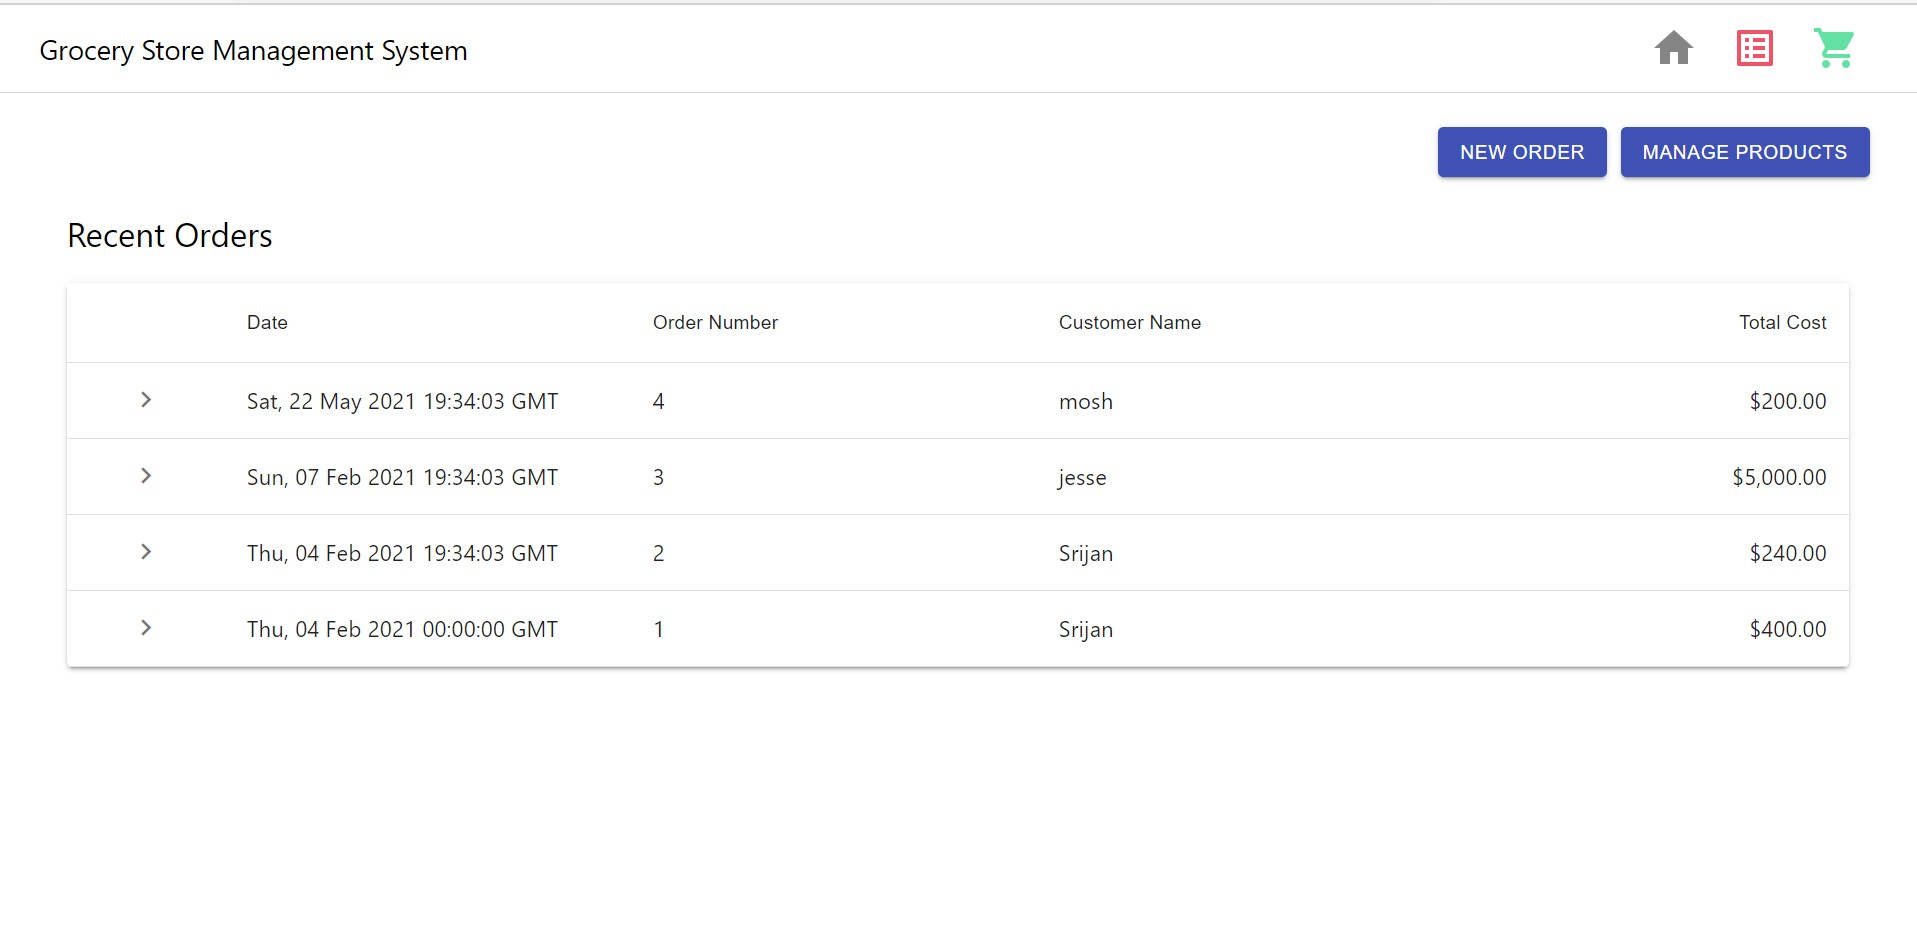
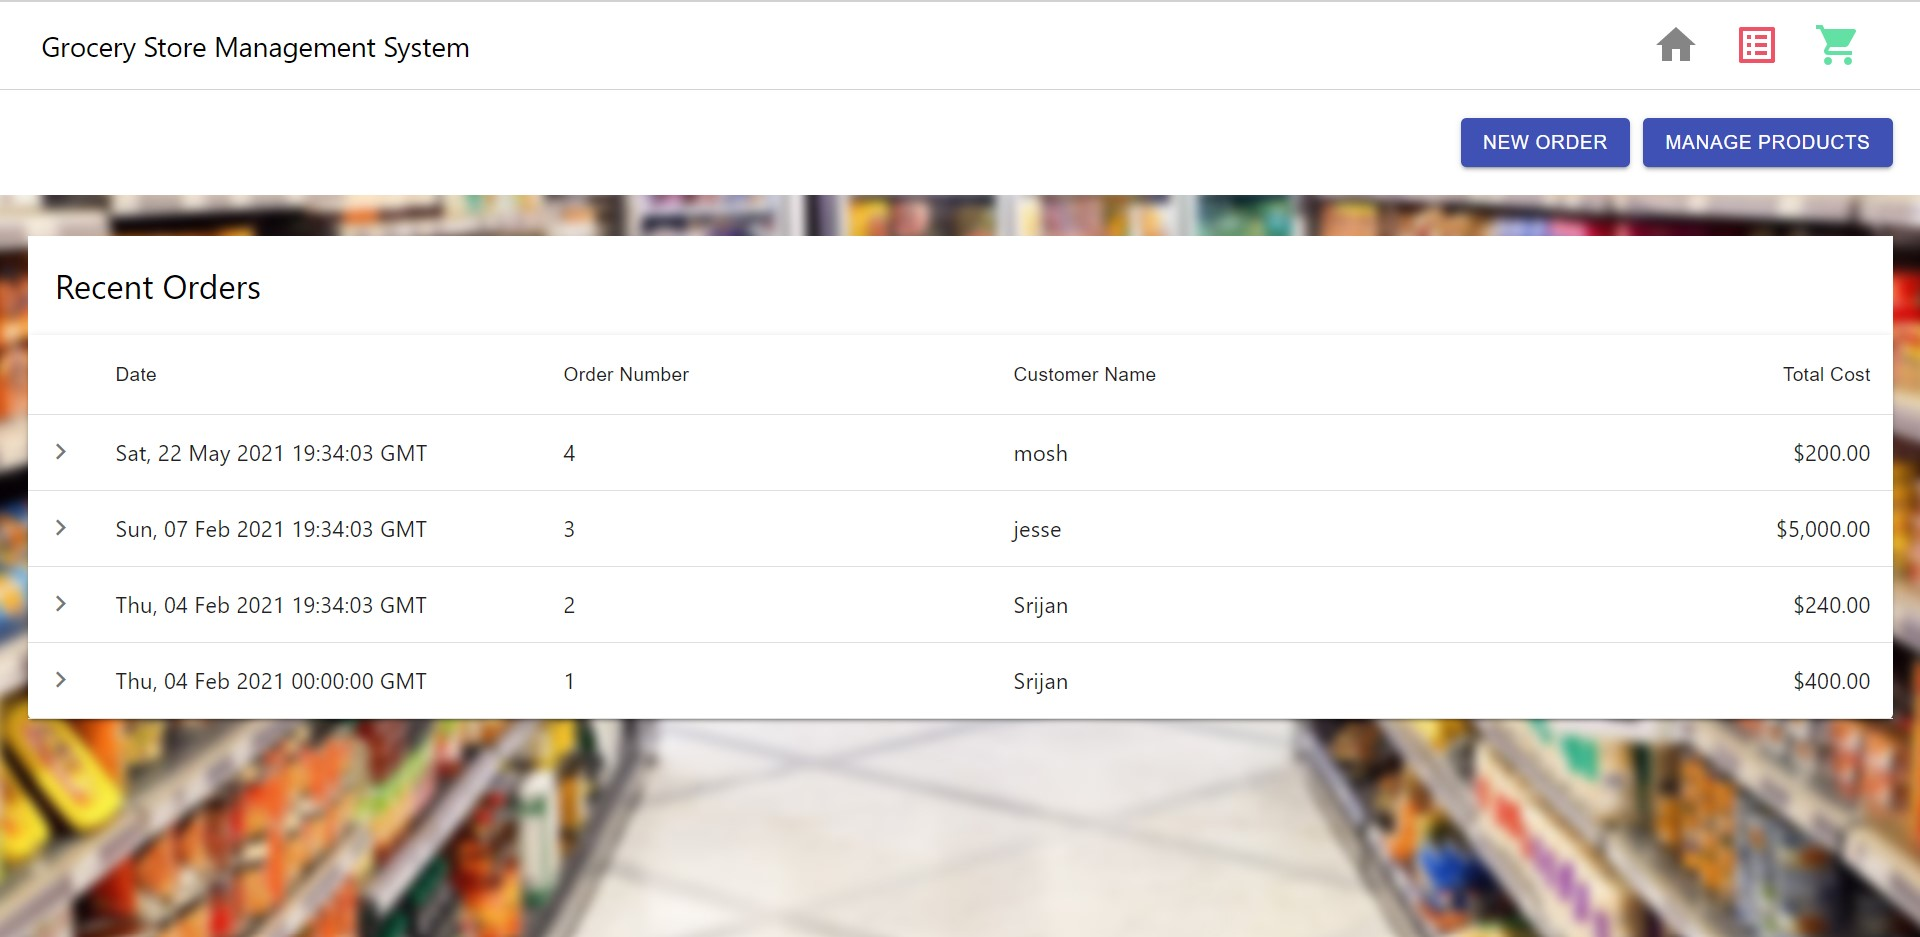
added bg image

diff --git a/src/pages/NewOrder/NewOrder.jsx b/src/pages/NewOrder/NewOrder.jsx
@@ -1,21 +1,17 @@
-import React, { useState, useEffect, useRef } from "react";
+import React, { useState, useEffect } from "react";
 import "./NewOrder.css";
 import TextField from "@material-ui/core/TextField";
 import IconButton from "@material-ui/core/IconButton";
 import AddIcon from "@material-ui/icons/Add";
 import Button from "@material-ui/core/Button";
-import MenuItem from "@material-ui/core/MenuItem";
-import DeleteIcon from "@material-ui/icons/Delete";
 import axios from "../../axios";
+import OrderForm from "../../components/OrderForm/OrderForm";
 
 function NewOrder() {
-  const [inputList, setInputList] = useState([
+  const [orderDetails, setOrderDetails] = useState([
     { index: 0, product: "", quantity: "" },
   ]);
   const [products, setProducts] = useState([]);
-  const [productId, setProductId] = useState([]);
-  const [qty, setQty] = useState([]);
-  const [inputCount, setInputCount] = useState(0);
 
   useEffect(() => {
     const getProducts = async () => {
@@ -26,19 +22,34 @@ function NewOrder() {
     getProducts();
   }, []);
 
-  function handleAdd() {
-    setInputCount((inputCount += 1));
-    const values = [...inputList];
-    values.push({ index: inputCount, product: "", quantity: "" });
-    setInputList(values);
-  }
-  const handleDelete = (i) => {
-    const values = [...inputList];
-    values.splice(i, 1);
-    console.log("Deleting index: ", i);
-    setInputList(values);
+  const addNewRow = (e) => {
+    setOrderDetails([
+      ...orderDetails,
+      { index: orderDetails.length, product: "", quantity: "" },
+    ]);
   };
 
+  const handleDelete = (indx) => {
+    console.log("Deleting...", indx);
+    // let data = orderDetails
+    // setOrderDetails(orderDetails.filter((r) => r !== record));
+  };
+
+  const handleProductChange = (e, i) => {
+    // if (["name", "quantity"].includes(e.target.name)) {
+    //   // let orderDetails = [...orderDetails];
+    //   orderDetails[e.target.dataset.id][e.target.name] = e.target.value;
+    // } else {
+    //   setOrderDetails({ [e.target.name]: e.target.value });
+    // }
+    console.log(orderDetails);
+    console.log(i, e.target.value);
+  };
+
+  const handleQtyChange = (e, i) => {
+    console.log(orderDetails);
+    console.log(i, e.target.value);
+  };
   const handleSubmit = (e) => {
     e.preventDefault();
     console.log("submitting form");
@@ -46,63 +57,23 @@ function NewOrder() {
 
   return (
     <div className="newOrder">
-      <form onSubmit={(e) => handleSubmit(e)}>
+      <form onSubmit={handleSubmit}>
         <TextField label="Customer Name" type="text" />
         <IconButton
-          onClick={() => handleAdd()}
+          onClick={addNewRow}
           aria-label="delete"
           className="deleteBtn"
         >
           <AddIcon />
         </IconButton>
-        {inputList.map((input, indx) => (
-          <div key={`${input}-${indx}`} className="products__input">
-            <TextField
-              className="product__select"
-              label="Product"
-              variant="outlined"
-              type="text"
-              value={productId}
-              onChange={(e) => {
-                setProductId(e.target.value);
-              }}
-              select
-            >
-              {products.map((product) => (
-                <MenuItem key={product.product_id} value={product.product_id}>
-                  {product.name}
-                </MenuItem>
-              ))}
-            </TextField>
-
-            <TextField
-              className="product__qty"
-              label="Qty."
-              variant="outlined"
-              type="number"
-              onChange={(e) => {
-                setQty({ indx: indx, qty: e.target.value });
-              }}
-            />
-            <div>
-              <p className="product_price">Price:</p>
-              <p className="product_price">0.0/uom</p>
-            </div>
-            <div className="product__total">
-              <p>Total:</p>
-              <p>0.0</p>
-            </div>
-            <IconButton
-              onClick={() => {
-                handleDelete(indx);
-              }}
-              aria-label="delete"
-              className="deleteBtn"
-            >
-              <DeleteIcon />
-            </IconButton>
-          </div>
-        ))}
+        <OrderForm
+          add={addNewRow}
+          delete={handleDelete}
+          orderDetails={orderDetails}
+          products={products}
+          handleProductChange={handleProductChange}
+          handleQtyChange={handleQtyChange}
+        />
         <Button
           className="submmitBtn"
           variant="contained"

diff --git a/src/components/OrderForm/OrderForm.jsx b/src/components/OrderForm/OrderForm.jsx
@@ -1,0 +1,54 @@
+import React from "react";
+import MenuItem from "@material-ui/core/MenuItem";
+import DeleteIcon from "@material-ui/icons/Delete";
+import TextField from "@material-ui/core/TextField";
+import IconButton from "@material-ui/core/IconButton";
+
+function OrderForm(props) {
+  return (
+    <>
+      {props.orderDetails.map((val, idx) => (
+        <div key={val.index} className="products__input">
+          <TextField
+            className="product__select"
+            label="Product"
+            variant="outlined"
+            onChange={(e) => {
+              props.handleProductChange(e, idx);
+            }}
+            select
+          >
+            {props.products.map((product) => (
+              <MenuItem key={product.product_id} value={product.product_id}>
+                {product.name}
+              </MenuItem>
+            ))}
+          </TextField>
+
+          <TextField
+            className="product__qty"
+            label="Qty."
+            variant="outlined"
+            type="number"
+            defaultValue=""
+            onChange={(e) => {
+              props.handleQtyChange(e, idx);
+            }}
+          />
+
+          <IconButton
+            onClick={() => {
+              props.delete(idx);
+            }}
+            aria-label="delete"
+            className="deleteBtn"
+          >
+            <DeleteIcon />
+          </IconButton>
+        </div>
+      ))}
+    </>
+  );
+}
+
+export default OrderForm;
